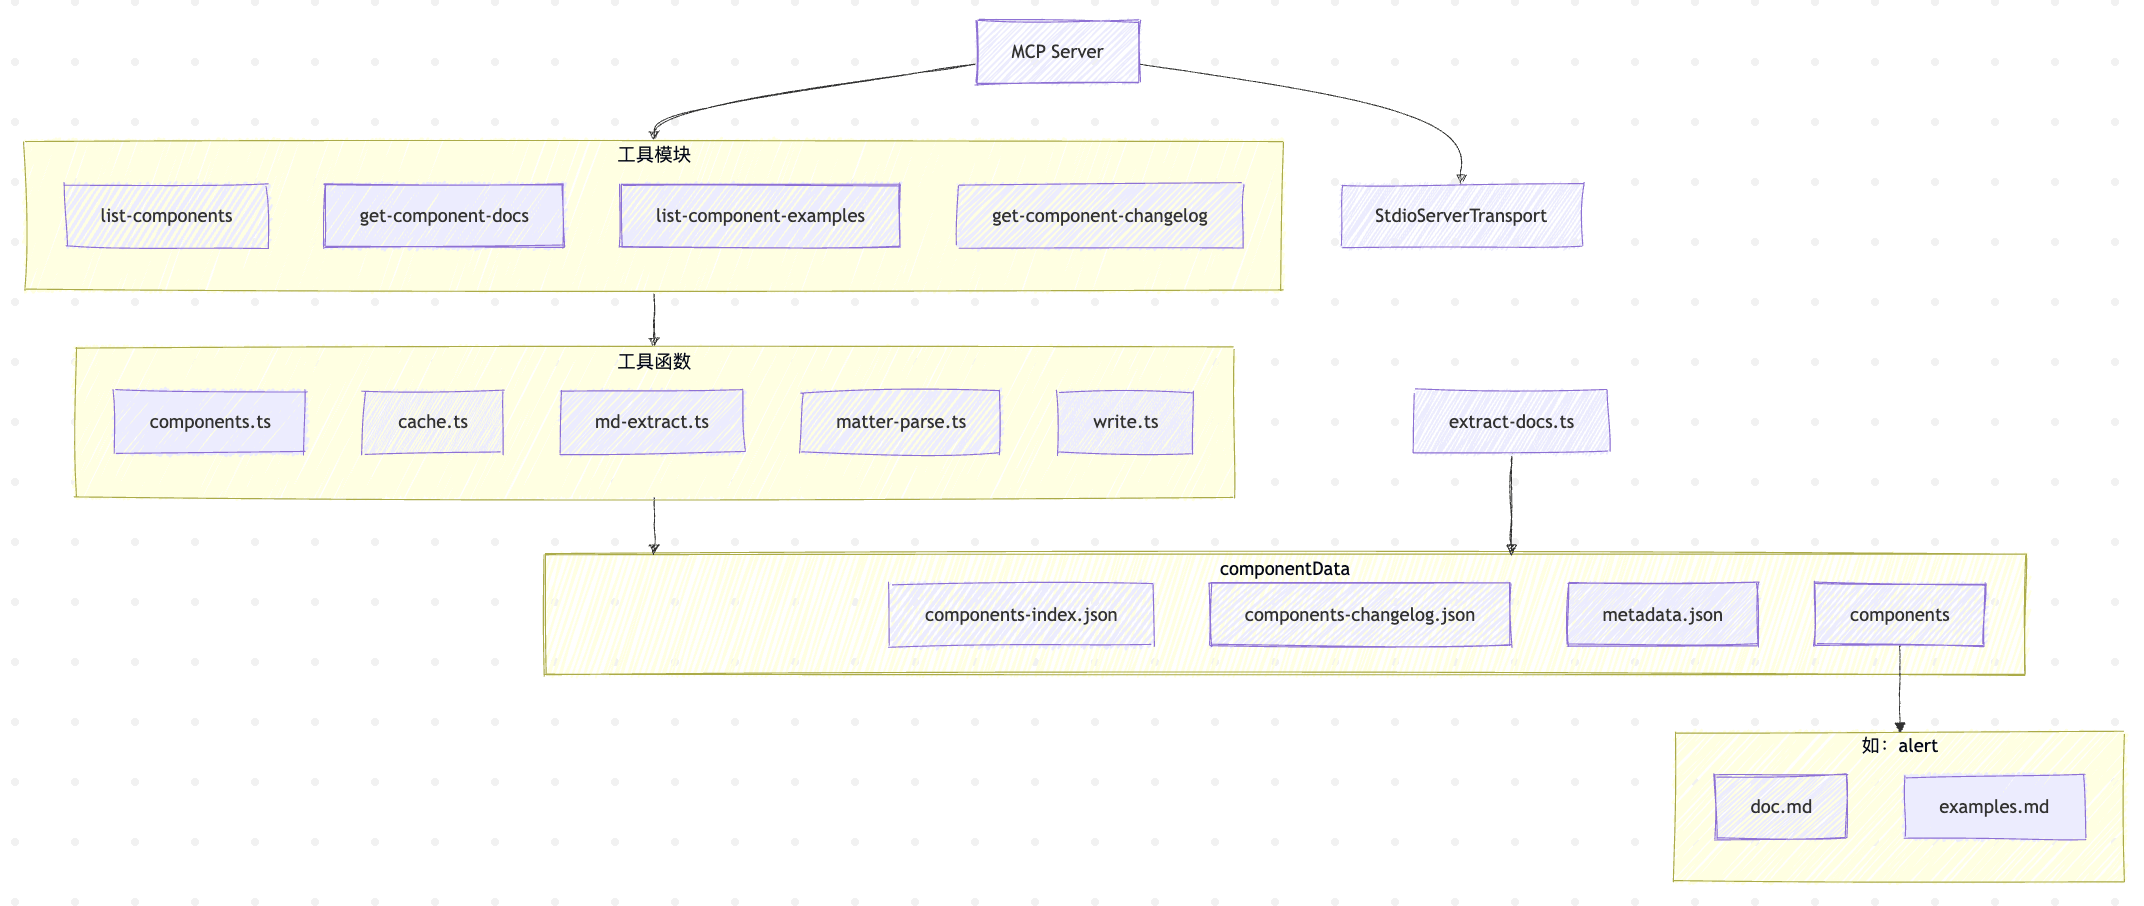
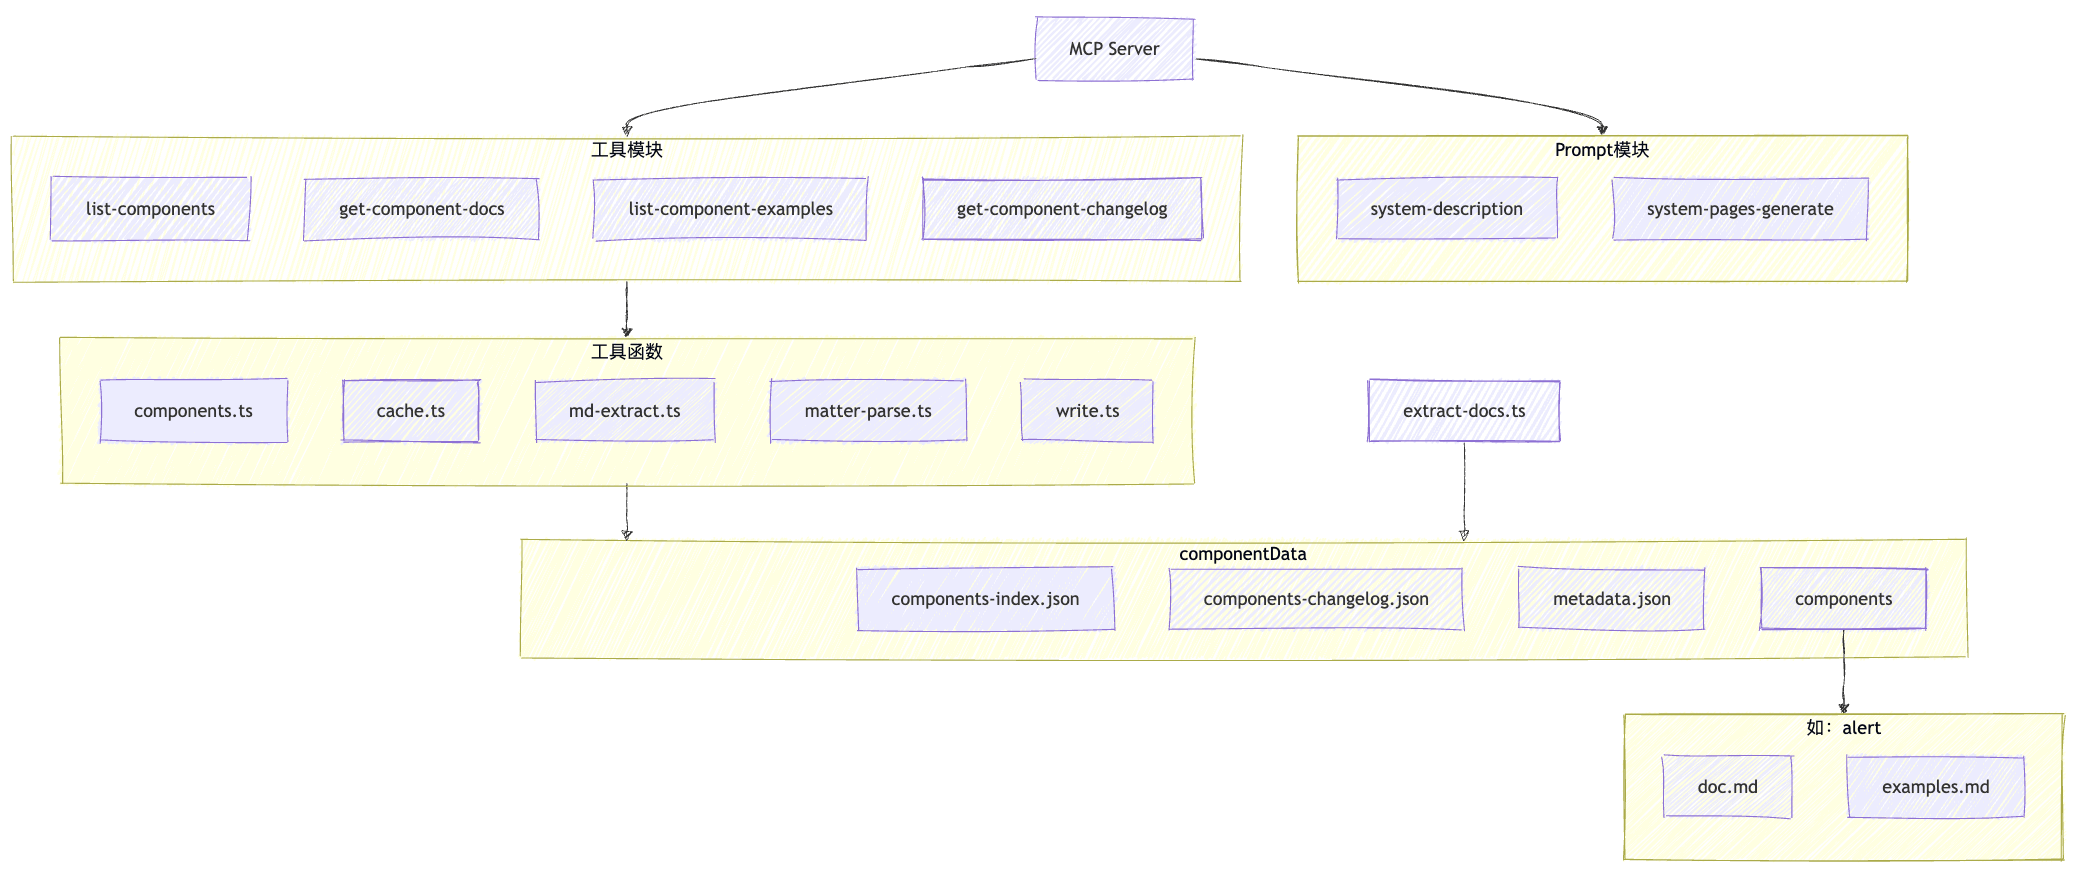
feat: 更新整体架构图

diff --git a/README.zh-CN.md b/README.zh-CN.md
@@ -257,8 +257,15 @@ Button 组件接受哪些属性？
 graph TD
     %% 主要模块
     Server[MCP Server] --> Tools
-    Server --> Transport[StdioServerTransport]
+    Server[MCP Server] --> Prompts
     
+
+    %% Prompt 模块
+    subgraph Prompts[Prompt模块]
+        SystemDescription[system-description]
+        SystemPagesGenerate[system-pages-generate]
+    end
+
     %% 工具模块
     subgraph Tools[工具模块]
         ListComponents[list-components]
@@ -294,7 +301,7 @@ graph TD
     end
 
     CompDirs --> ComponentDirs
-    
+
     %% 数据提取脚本
     Scripts[extract-docs.ts] --> ComponentData
 ```

diff --git a/README.md b/README.md
@@ -263,8 +263,14 @@ To update Ant Design documentation, simply run:
 graph TD
     %% Main modules
     Server[MCP Server] --> Tools
-    Server --> Transport[StdioServerTransport]
-    
+    Server[MCP Server] --> Prompts
+
+    %% Prompt modules
+    subgraph Prompts[Prompt Modules]
+        SystemDescription[system-description]
+        SystemPagesGenerate[system-pages-generate]
+    end
+
     %% Tool modules
     subgraph Tools[Tool Modules]
         ListComponents[list-components]
